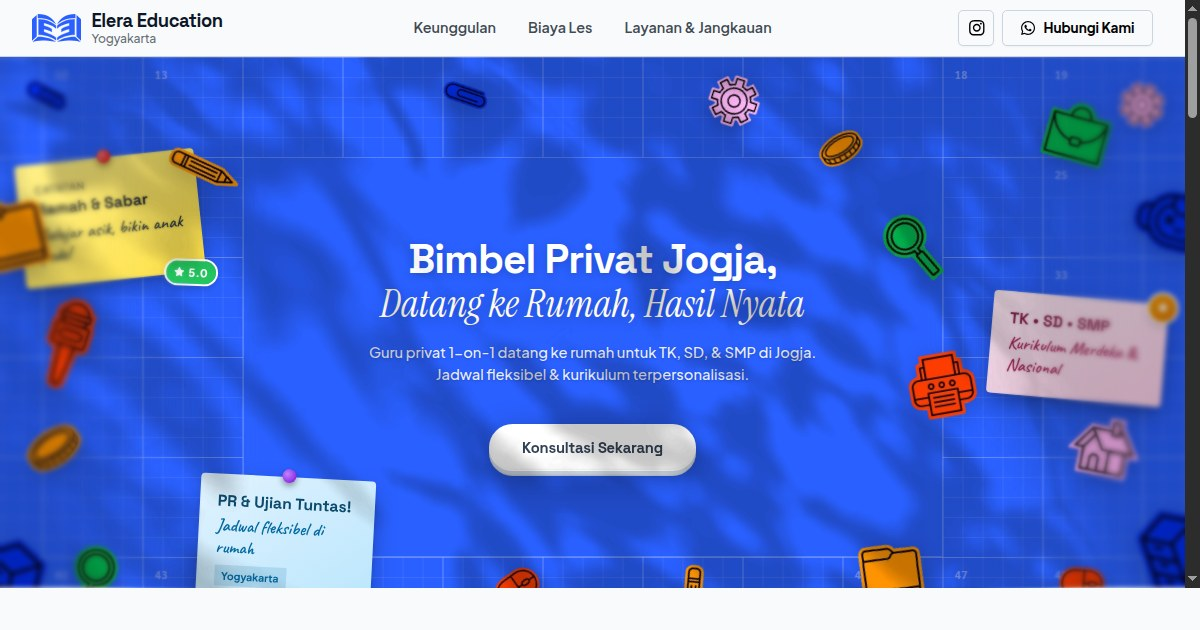
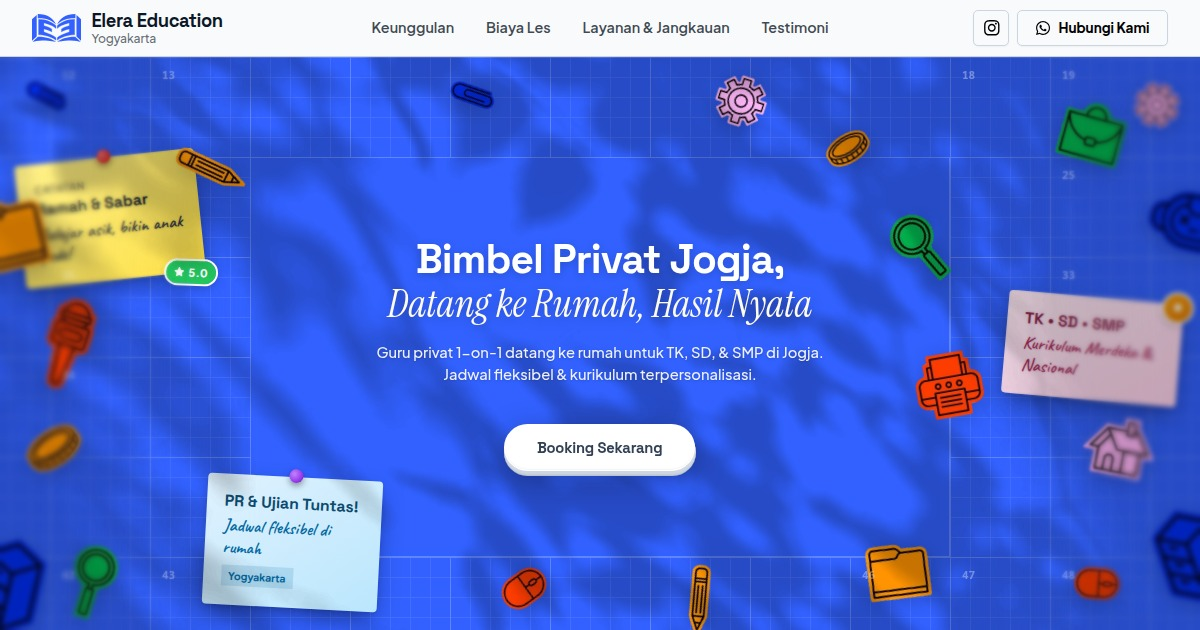
feat: seo

diff --git a/src/app/layout.tsx b/src/app/layout.tsx
@@ -32,36 +32,180 @@ const caveat = Caveat({
 
 export const metadata: Metadata = {
   metadataBase: new URL("https://eleraeducation.com"),
-  title: "Elera Education | Bimbel Panggilan Privat Yogyakarta",
+  title: {
+    default: "Elera Education | Bimbel Privat Jogja - Tentor Datang ke Rumah",
+    template: "%s | Elera Education",
+  },
   description:
-    "Bimbel Panggilan Privat Terbaik di Yogyakarta. Tentor datang ke rumah, jadwal fleksibel, dan pendampingan kurikulum terpersonalisasi untuk TK hingga SMP.",
+    "Bimbel privat terbaik di Jogja guru datang ke rumah untuk TK, SD, & SMP. Jadwal fleksibel, pendampingan kurikulum personal, dan tentor pilihan kampus ternama.",
+  keywords: [
+    "bimbel privat jogja",
+    "les privat jogja",
+    "les privat datang ke rumah jogja",
+    "bimbel tk sd smp jogja",
+    "guru les privat yogyakarta",
+    "les privat sleman",
+    "les privat bantul",
+    "les calistung jogja",
+    "bimbel ujian sekolah jogja",
+    "elera education jogja",
+  ],
+  authors: [{ name: "Elera Education", url: "https://eleraeducation.com" }],
+  creator: "Elera Education",
+  publisher: "Elera Education",
+  formatDetection: {
+    email: false,
+    address: false,
+    telephone: false,
+  },
+  alternates: {
+    canonical: "/",
+  },
   icons: {
     icon: [{ url: "/icon.svg", type: "image/svg+xml" }],
+    apple: [{ url: "/icon.svg" }],
   },
   openGraph: {
-    title: "Elera Education | Bimbel Panggilan Privat Yogyakarta",
+    title: "Elera Education | Bimbel Privat Jogja - Tentor Datang ke Rumah",
     description:
-      "Bimbel Panggilan Privat Terbaik di Yogyakarta. Tentor datang ke rumah, jadwal fleksibel, dan pendampingan kurikulum terpersonalisasi untuk TK hingga SMP.",
+      "Bimbel privat datang ke rumah untuk TK, SD, & SMP di Yogyakarta. Pendampingan personal 1-on-1, jadwal fleksibel, dan tentor PTN ternama.",
     url: "https://eleraeducation.com",
     siteName: "Elera Education",
+    locale: "id_ID",
+    type: "website",
     images: [
       {
         url: "/og-image.jpg",
         width: 1200,
         height: 630,
-        alt: "Elera Education - Bimbel Privat Jogja, Datang ke Rumah, Hasil Nyata",
+        alt: "Elera Education - Bimbel Privat Jogja Datang ke Rumah",
       },
     ],
-    locale: "id_ID",
-    type: "website",
   },
   twitter: {
     card: "summary_large_image",
-    title: "Elera Education | Bimbel Panggilan Privat Yogyakarta",
+    title: "Elera Education | Bimbel Privat Jogja - Tentor Datang ke Rumah",
     description:
-      "Bimbel Panggilan Privat Terbaik di Yogyakarta. Tentor datang ke rumah, jadwal fleksibel, dan pendampingan kurikulum terpersonalisasi untuk TK hingga SMP.",
+      "Bimbel privat datang ke rumah untuk TK, SD, & SMP di Yogyakarta. Pendampingan personal 1-on-1, jadwal fleksibel, dan tentor PTN ternama.",
     images: ["/og-image.jpg"],
   },
+  robots: {
+    index: true,
+    follow: true,
+    googleBot: {
+      index: true,
+      follow: true,
+      "max-video-preview": -1,
+      "max-image-preview": "large",
+      "max-snippet": -1,
+    },
+  },
+  category: "Education",
+};
+
+const jsonLd = {
+  "@context": "https://schema.org",
+  "@graph": [
+    {
+      "@type": ["EducationalOrganization", "LocalBusiness"],
+      "@id": "https://eleraeducation.com/#organization",
+      name: "Elera Education",
+      alternateName: "Bimbel Privat Elera Education Jogja",
+      url: "https://eleraeducation.com",
+      logo: {
+        "@type": "ImageObject",
+        url: "https://eleraeducation.com/icon.svg",
+      },
+      image: "https://eleraeducation.com/og-image.jpg",
+      description:
+        "Bimbingan belajar panggilan privat terbaik di Yogyakarta untuk jenjang TK, SD, dan SMP. Guru les privat datang langsung ke rumah dengan kurikulum personal dan jadwal fleksibel.",
+      telephone: "+628129387076",
+      priceRange: "Rp 35.000 - Rp 95.000",
+      currenciesAccepted: "IDR",
+      paymentAccepted: "Cash, Transfer Bank",
+      address: {
+        "@type": "PostalAddress",
+        addressLocality: "Yogyakarta",
+        addressRegion: "Daerah Istimewa Yogyakarta",
+        addressCountry: "ID",
+      },
+      geo: {
+        "@type": "GeoCoordinates",
+        latitude: -7.7956,
+        longitude: 110.3695,
+      },
+      areaServed: [
+        { "@type": "City", name: "Yogyakarta" },
+        { "@type": "AdministrativeArea", name: "Kabupaten Sleman" },
+        { "@type": "AdministrativeArea", name: "Kabupaten Bantul" },
+      ],
+      sameAs: ["https://www.instagram.com/elera.education.jogja/"],
+      openingHoursSpecification: [
+        {
+          "@type": "OpeningHoursSpecification",
+          dayOfWeek: [
+            "Monday",
+            "Tuesday",
+            "Wednesday",
+            "Thursday",
+            "Friday",
+            "Saturday",
+            "Sunday",
+          ],
+          opens: "07:00",
+          closes: "21:00",
+        },
+      ],
+    },
+    {
+      "@type": "WebSite",
+      "@id": "https://eleraeducation.com/#website",
+      url: "https://eleraeducation.com",
+      name: "Elera Education",
+      publisher: {
+        "@id": "https://eleraeducation.com/#organization",
+      },
+      inLanguage: "id-ID",
+    },
+    {
+      "@type": "FAQPage",
+      "@id": "https://eleraeducation.com/#faq",
+      mainEntity: [
+        {
+          "@type": "Question",
+          name: "Apakah guru atau tentor Elera Education datang langsung ke rumah?",
+          acceptedAnswer: {
+            "@type": "Answer",
+            text: "Ya, bimbingan belajar Elera Education berbasis privat panggilan, di mana tentor berpengalaman datang langsung ke rumah siswa di area Yogyakarta, Sleman, dan Bantul.",
+          },
+        },
+        {
+          "@type": "Question",
+          name: "Jenjang pendidikan apa saja yang dilayani oleh Elera Education?",
+          acceptedAnswer: {
+            "@type": "Answer",
+            text: "Elera Education melayani jenjang TK (Calistung), SD Kelas 1-6 (pendampingan PR, ulangan harian, dan ujian sekolah/TKA/ASAT), serta SMP Kelas 7-9 untuk semua mata pelajaran pokok.",
+          },
+        },
+        {
+          "@type": "Question",
+          name: "Berapa biaya bimbingan belajar privat di Elera Education Jogja?",
+          acceptedAnswer: {
+            "@type": "Answer",
+            text: "Biaya les privat mulai dari Rp 35.000 per anak per sesi untuk kelas kelompok hingga Rp 95.000 per sesi untuk les privat 1-on-1 dengan durasi 90 menit.",
+          },
+        },
+        {
+          "@type": "Question",
+          name: "Apakah jadwal les privat bisa disesuaikan?",
+          acceptedAnswer: {
+            "@type": "Answer",
+            text: "Jadwal les privat di Elera Education sangat fleksibel dan dapat diatur sesuai kenyamanan waktu siswa dan kesepakatan orang tua bersama tentor.",
+          },
+        },
+      ],
+    },
+  ],
 };
 
 export default function RootLayout({
@@ -70,7 +214,16 @@ export default function RootLayout({
   children: React.ReactNode;
 }>) {
   return (
-    <html lang="id" className={`${spaceGrotesk.variable} ${plusJakartaSans.variable} ${instrumentSerif.variable} ${caveat.variable}`}>
+    <html
+      lang="id"
+      className={`${spaceGrotesk.variable} ${plusJakartaSans.variable} ${instrumentSerif.variable} ${caveat.variable}`}
+    >
+      <head>
+        <script
+          type="application/ld+json"
+          dangerouslySetInnerHTML={{ __html: JSON.stringify(jsonLd) }}
+        />
+      </head>
       <body>
         <ScrollToTopOnRefresh />
         {children}

diff --git a/src/components/sections/testimonials-section.tsx b/src/components/sections/testimonials-section.tsx
@@ -57,9 +57,9 @@ export function TestimonialsSection() {
                 />
               </span>
             </div>
-            <div className="testimonials-extrusion-header__title">
+            <h2 className="testimonials-extrusion-header__title m-0 p-0 font-inherit leading-normal">
               Testimoni
-            </div>
+            </h2>
           </div>
 
           <div className="chat-mat">

diff --git a/src/app/robots.ts b/src/app/robots.ts
@@ -1,0 +1,17 @@
+import type { MetadataRoute } from "next";
+
+export const dynamic = "force-static";
+
+export default function robots(): MetadataRoute.Robots {
+  return {
+    rules: [
+      {
+        userAgent: "*",
+        allow: "/",
+      },
+    ],
+    sitemap: "https://eleraeducation.com/sitemap.xml",
+    host: "https://eleraeducation.com",
+  };
+}
+

diff --git a/src/app/sitemap.ts b/src/app/sitemap.ts
@@ -1,0 +1,15 @@
+import type { MetadataRoute } from "next";
+
+export const dynamic = "force-static";
+
+export default function sitemap(): MetadataRoute.Sitemap {
+  return [
+    {
+      url: "https://eleraeducation.com",
+      lastModified: new Date(),
+      changeFrequency: "weekly",
+      priority: 1.0,
+    },
+  ];
+}
+

diff --git a/src/components/ui/float-up.tsx b/src/components/ui/float-up.tsx
@@ -43,7 +43,7 @@ export interface FloatUpProps extends React.HTMLAttributes<HTMLElement> {
   transformOrigin?: string;
 }
 
-export interface FloatUpScaleProps extends FloatUpProps {}
+export type FloatUpScaleProps = FloatUpProps;
 
 export function FloatUp({
   children,
